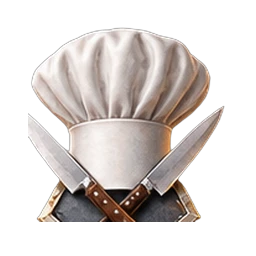
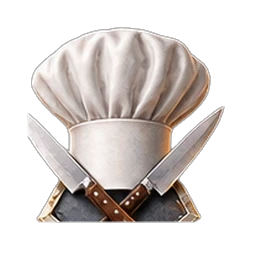
fix(arena): smooth the jagged rembg edges on rank emblems (v2.5.1206)
Owner's report on v2.5.1204: "corners cut unevenly" - the transparent
extraction itself was correct (no clipping, no background bleed) but
rembg's matte had hard, blocky, stair-stepped pixels at the silhouette
edge on some objects, worst on Kitchen Porter's wooden scrub brush
(confirmed by compositing onto solid magenta to see the alpha boundary
directly - clean smooth curve on the bucket, visibly jagged on the brush).

Applied a light Gaussian blur (radius 1.1px) to each asset's alpha channel
only (RGB untouched) followed by a soft threshold (below 40 -> fully
transparent, above 215 -> fully opaque, the blurred band between kept as
partial alpha) so the silhouette anti-aliases cleanly instead of either
staying blocky or turning uniformly translucent. Re-verified the same
brush edge after the pass - smooth curve, no more stair-steps.

Files: static/images/chef_battle/ranks/*.webp (same 8 assets, alpha-only
edit), templates/base.html (footer version).

Checks: test_static_image_weight 3/3 green, files slightly smaller after
smoothing; git diff --check clean.

Rollback: git revert <this commit>.

diff --git a/templates/base.html b/templates/base.html
@@ -445,7 +445,7 @@
             </div>
             <div class="footer-legal">
                 <span>&copy; 2026 Bearcave Limited. All rights reserved.</span>
-                <span class="footer-version">v2.5.1204</span>
+                <span class="footer-version">v2.5.1206</span>
             </div>
         </div>
     </div>
